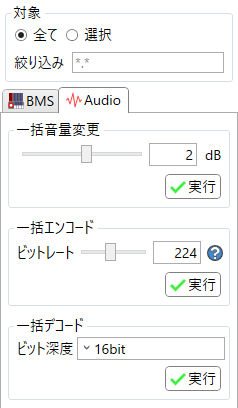
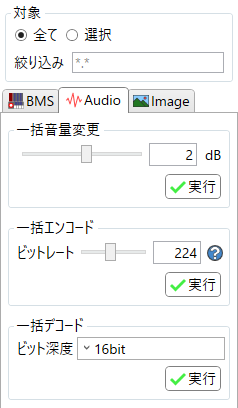
image操作パネルの説明を追加

Changed region(s): [[0.5294, 0.2059, 0.8235, 0.2941]]

diff --git a/docs/browse_image.html b/docs/browse_image.html
@@ -9,24 +9,20 @@
     <body>
         <div class="content">
             <div class="stack">
-                <h1>Audio操作パネル</h1>
+                <h1>Image操作パネル</h1>
                 <p>
-                    フォルダ内の音声ファイルに対する分析や一括操作を行うパネルです。
+                    フォルダ内の画像や動画ファイルに対する一括操作を行うパネルです。
                 </p>
             </div>
             <div class="stack">
                 <h2>説明</h2>
                 要素をクリックすると説明が表示されます。
-                <div class="image-map" src="img/browse_audio.png" maps="
+                <div class="image-map" src="img/browse_image.png" maps="
                       0,  0,238, 87, browse/target.html;
-                      2, 89, 56, 23, browse_bms.html, link;
-                    129, 89, 66, 23, browse_image.html, link;
-                      9,137,220, 33, browse/volume_gain.html;
-                    165,174, 56, 25, browse/volume_execute.html;
-                      9,235,220, 33, wave/encode_bitrate.html;
-                    165,272, 56, 25, browse/encode_execute.html;
-                      9,335,220, 27, wave/bytes.html;
-                    165,366, 56, 25, browse/decode_execute.html;
+                      2, 89, 58, 23, browse_bms.html, link;
+                     60, 89, 65, 23, browse_audio.html, link;
+                      9,137,220, 33, browse/imageConvert_ext.html;
+                    164,174, 56, 25, browse/imageConvert_execute.html;
                     ">
                 </div>
             </div>

diff --git a/docs/browse/imageConvert_execute.html b/docs/browse/imageConvert_execute.html
@@ -1,0 +1,12 @@
+<h3><img src="img/icons/Check_Green.png" class="icon"/>一括変換の実行</h3>
+<ul>
+    <li>
+        対象範囲内の全ての画像ファイルに対して、指定された形式への変換を行います。
+    </li>
+    <li>
+        対象となる形式は<span class="script">.bmp .png .gif .tif</span>です。
+    </li>
+    <li>
+        <b>アニメーションを含む画像は最初の1フレームだけが変換されます</b>。
+    </li>
+</ul>

diff --git a/docs/browse_bms.html b/docs/browse_bms.html
@@ -20,6 +20,7 @@
                 <div class="image-map" src="img/browse_bms.png" maps="
                       0,  0,238, 87, browse/target.html;
                      62, 89, 65, 23, browse_audio.html, link;
+                    127, 89, 68, 23, browse_image.html, link;
                       9,141,220, 25, browse/rename_name.html;
                       9,168,220, 25, browse/rename_bms.html;
                     165,217, 56, 25, browse/rename_execute.html;

diff --git a/docs/browse.html b/docs/browse.html
@@ -109,6 +109,9 @@
                             <li>
                                 <a href="browse_audio.html">Audio操作パネル</a>
                             </li>
+                            <li>
+                                <a href="browse_image.html">Image操作パネル</a>
+                            </li>
                         </ul>
                     </li>
                 </ul>

diff --git a/docs/common/menu.html b/docs/common/menu.html
@@ -255,6 +255,9 @@
                             <li>
                                 <a href="browse_audio.html">Audio</a>
                             </li>
+                            <li>
+                                <a href="browse_image.html">Image</a>
+                            </li>
                         </ul>
                     </details>
                 </li>

diff --git a/docs/browse/imageConvert_ext.html b/docs/browse/imageConvert_ext.html
@@ -1,0 +1,12 @@
+<h3>変換先の画像形式</h3>
+<ul>
+    <li>
+        変換先の画像形式を選択します。
+    </li>
+    <li>
+        選択可能な形式は<span class="script">.bmp .png .gif .tif</span>です。
+    </li>
+    <li>
+        <b>アニメーションを含む画像は最初の1フレームだけが変換されます</b>。
+    </li>
+</ul>
